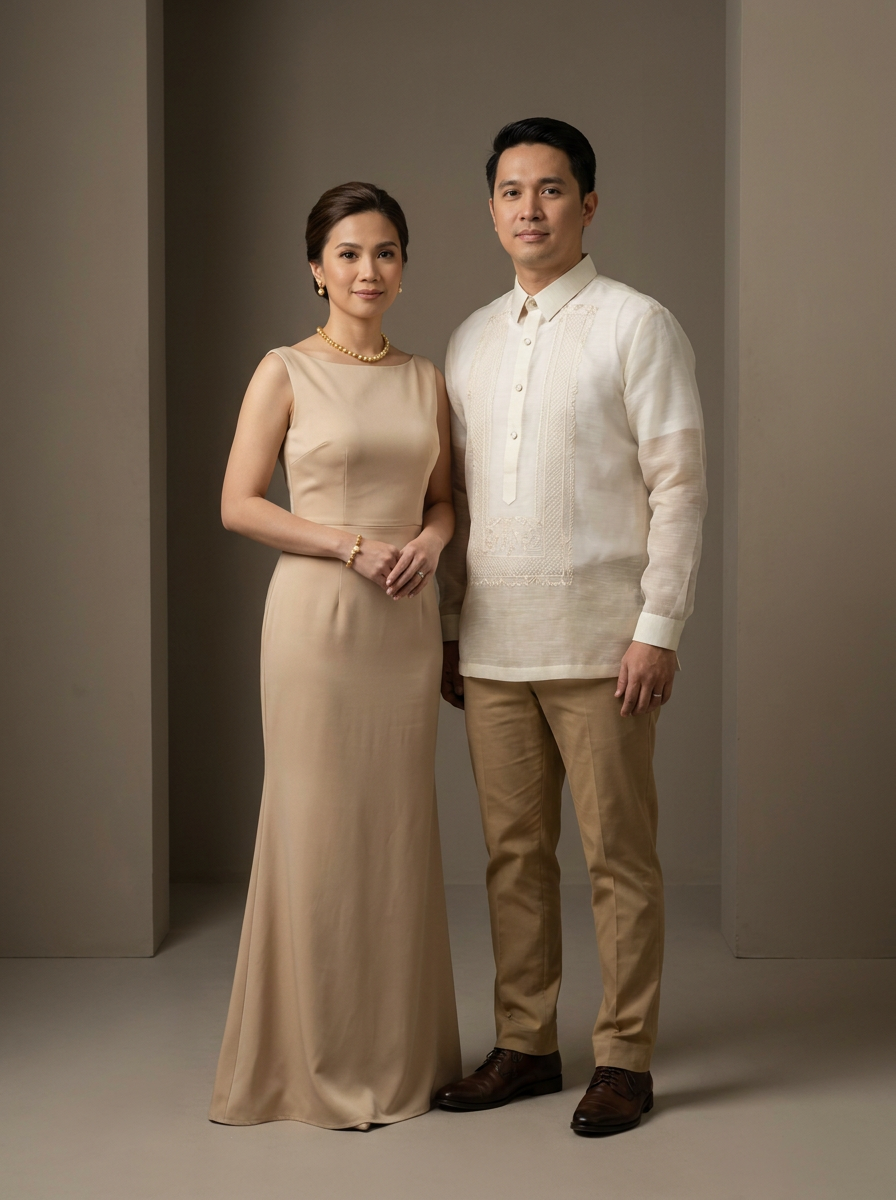
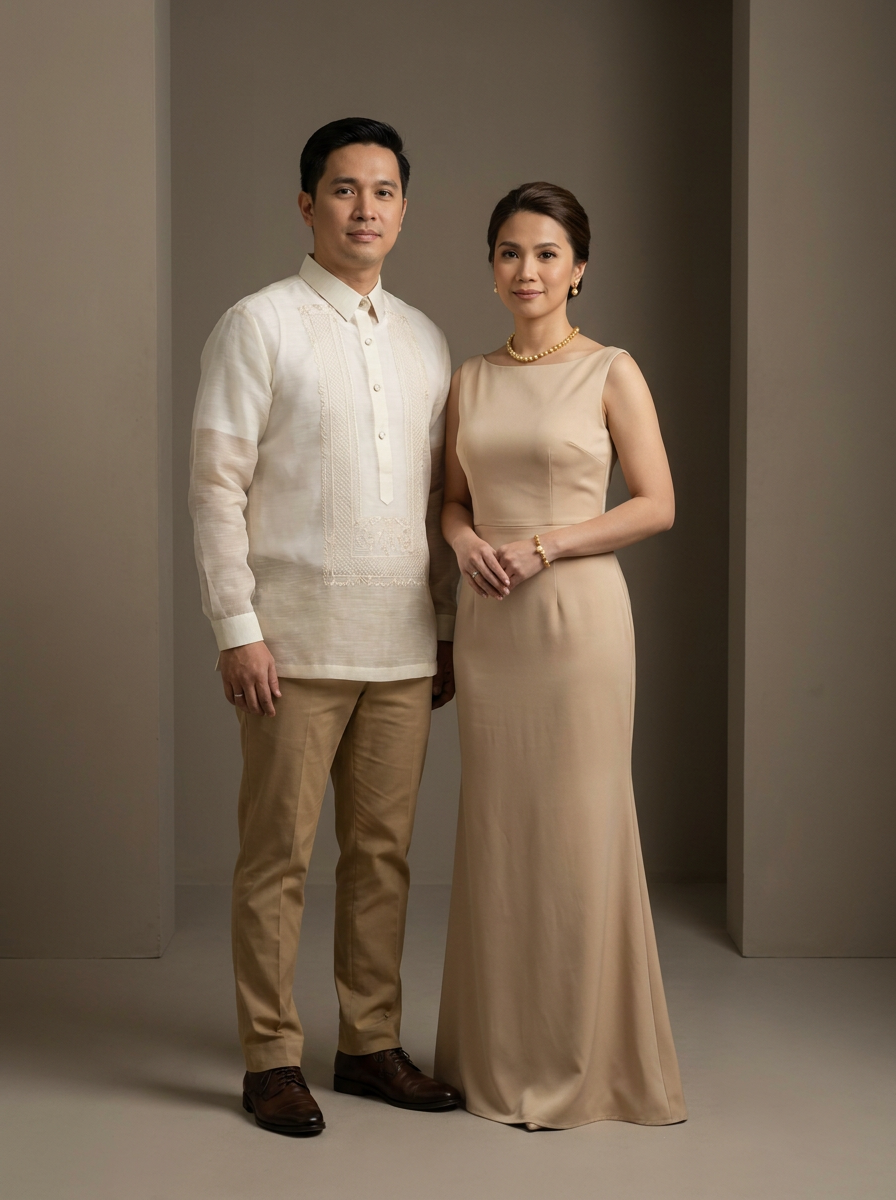
fix(attire): align gentleman and lady positions and captions across all attire guides

diff --git a/public/index.html b/public/index.html
@@ -659,10 +659,10 @@
                       <i class="fas fa-expand text-[9px]"></i> Tap to Enlarge
                     </div>
                   </div>
-                  <div class="mt-3 pt-2.5 border-t border-stone-200/60 flex items-center justify-center gap-2 text-[11px] font-cinzel font-semibold tracking-wider text-stone-700 uppercase">
-                    <span>Barong & Khaki Pants</span>
-                    <span class="text-wedding-secondary">•</span>
-                    <span>Nude Evening Gown</span>
+                  <div class="mt-3 pt-2.5 border-t border-stone-200/60 flex items-center justify-center gap-2 sm:gap-3 text-[11px] font-cinzel font-semibold tracking-wider text-stone-700 uppercase flex-wrap">
+                    <span class="flex items-center gap-1.5"><span class="text-[9px] px-1.5 py-0.5 rounded bg-amber-100/80 text-amber-900 font-bold">Gentlemen</span> Barong & Khaki Pants</span>
+                    <span class="text-wedding-secondary font-bold">•</span>
+                    <span class="flex items-center gap-1.5"><span class="text-[9px] px-1.5 py-0.5 rounded bg-amber-100/80 text-amber-900 font-bold">Ladies</span> Nude Evening Gown</span>
                   </div>
                 </div>
               </div>
@@ -727,10 +727,10 @@
                       <i class="fas fa-expand text-[9px]"></i> Tap to Enlarge
                     </div>
                   </div>
-                  <div class="mt-3 pt-2.5 border-t border-stone-200/60 flex items-center justify-center gap-2 text-[11px] font-cinzel font-semibold tracking-wider text-stone-700 uppercase">
-                    <span>Traditional Barong</span>
-                    <span class="text-wedding-secondary">•</span>
-                    <span>Chocolate Brown Gown</span>
+                  <div class="mt-3 pt-2.5 border-t border-stone-200/60 flex items-center justify-center gap-2 sm:gap-3 text-[11px] font-cinzel font-semibold tracking-wider text-stone-700 uppercase flex-wrap">
+                    <span class="flex items-center gap-1.5"><span class="text-[9px] px-1.5 py-0.5 rounded bg-amber-100/80 text-amber-900 font-bold">Gentlemen</span> Traditional Barong</span>
+                    <span class="text-wedding-secondary font-bold">•</span>
+                    <span class="flex items-center gap-1.5"><span class="text-[9px] px-1.5 py-0.5 rounded bg-amber-100/80 text-amber-900 font-bold">Ladies</span> Chocolate Brown Gown</span>
                   </div>
                 </div>
               </div>
@@ -815,10 +815,10 @@
                       <i class="fas fa-expand text-[9px]"></i> Tap to Enlarge
                     </div>
                   </div>
-                  <div class="mt-3 pt-2.5 border-t border-stone-200/60 flex items-center justify-center gap-2 text-[11px] font-cinzel font-semibold tracking-wider text-stone-700 uppercase">
-                    <span>Formal Polo / Barong</span>
-                    <span class="text-wedding-secondary">•</span>
-                    <span>Taupe Dress</span>
+                  <div class="mt-3 pt-2.5 border-t border-stone-200/60 flex items-center justify-center gap-2 sm:gap-3 text-[11px] font-cinzel font-semibold tracking-wider text-stone-700 uppercase flex-wrap">
+                    <span class="flex items-center gap-1.5"><span class="text-[9px] px-1.5 py-0.5 rounded bg-amber-100/80 text-amber-900 font-bold">Gentlemen</span> Formal Polo / Barong</span>
+                    <span class="text-wedding-secondary font-bold">•</span>
+                    <span class="flex items-center gap-1.5"><span class="text-[9px] px-1.5 py-0.5 rounded bg-amber-100/80 text-amber-900 font-bold">Ladies</span> Taupe Dress</span>
                   </div>
                 </div>
               </div>

diff --git a/public/js/wedding.js b/public/js/wedding.js
@@ -401,15 +401,15 @@ function initAttireTabs() {
 const attireLookbook = [
     {
         imageUrl: '/images/attire-principal-sponsors.png',
-        caption: 'Principal Sponsors Attire Guide — Traditional Barong Tagalog & Khaki Pants (Gentlemen) & Elegant Nude Evening Gown (Ladies)'
+        caption: 'Principal Sponsors Attire Guide — Gentlemen (Left): Traditional Barong Tagalog & Khaki Pants • Ladies (Right): Elegant Nude Evening Gown'
     },
     {
         imageUrl: '/images/attire-secondary-sponsors.png',
-        caption: 'Secondary Sponsors Attire Guide — Traditional Barong Tagalog (Gentlemen) & Rich Chocolate Brown Evening Gown (Ladies)'
+        caption: 'Secondary Sponsors Attire Guide — Gentlemen (Left): Traditional Barong Tagalog • Ladies (Right): Rich Chocolate Brown Evening Gown'
     },
     {
         imageUrl: '/images/attire-guests.png',
-        caption: 'Guests Attire Guide — Formal Polo / Barong (Gentlemen) & Chic Taupe Dress (Ladies)'
+        caption: 'Guests Attire Guide — Gentlemen (Left): Formal Polo / Barong • Ladies (Right): Chic Taupe Dress'
     }
 ];
 
